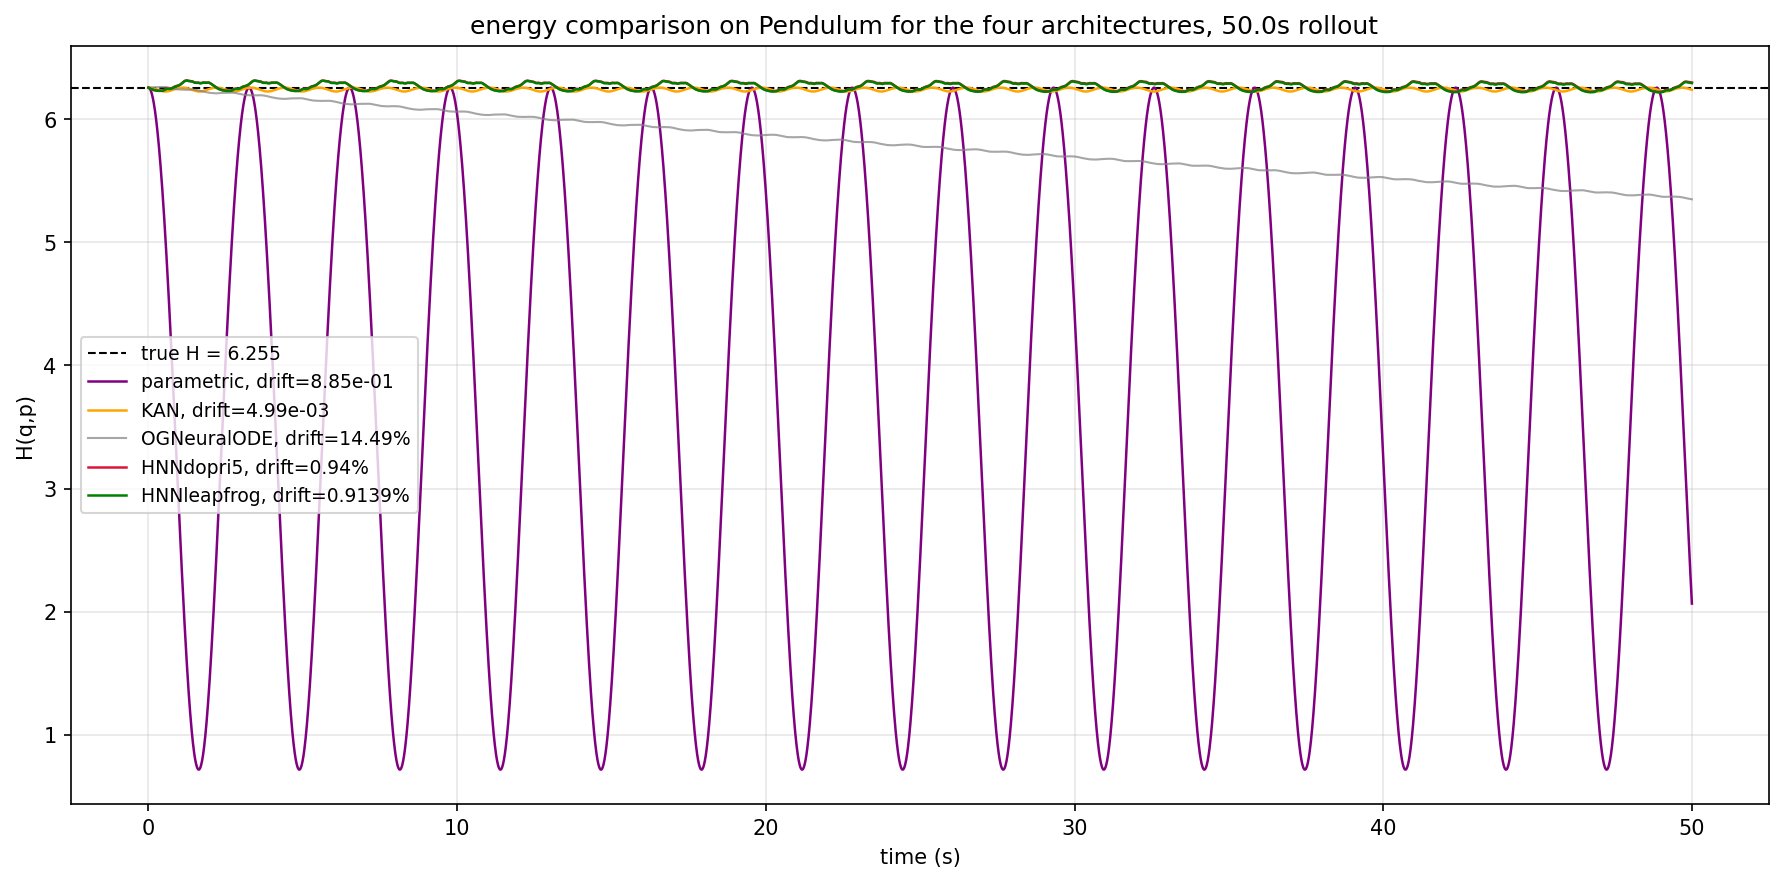
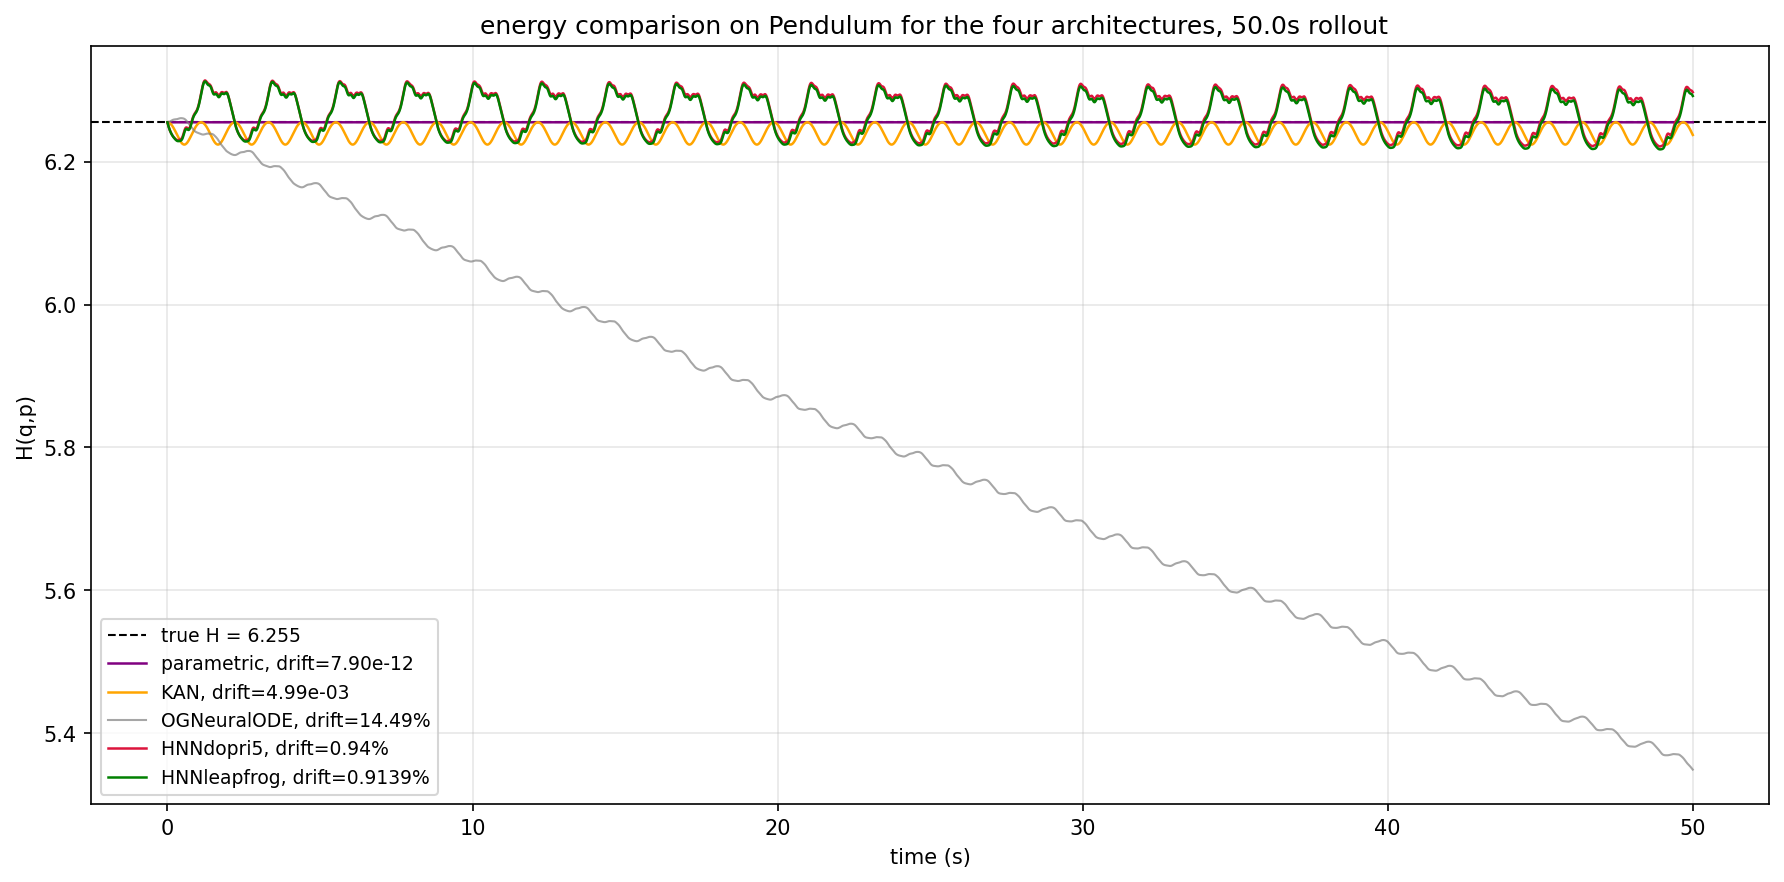
added pendulum

diff --git a/notebooks/comparison_pendulum.py b/notebooks/comparison_pendulum.py
@@ -46,16 +46,19 @@ def oracle_of_truth_trajectory(q0,p0, t_eval):
     return q,p,H
 
 def parametric_rollout(q0,p0,t_eval):
+    pend = SimplePendulum(m=1.0, l=1.0, g=9.81)
     data=np.load(data_path)
+
     train_idx=data['train_idx']
     q_train=data['q_clean'][train_idx].flatten()
     p_train=data['p_clean'][train_idx].flatten()
-    H_train=.5*q_train**2+.5*p_train**2
+    H_train = pend.hamiltonian(q_train, p_train)
 
-    pfit=ParametricHamiltonianFit()
-    result=pfit.fit_pendulum(q_train,p_train,H_train)
-    a,b=result['a'],result['b']
-    print(f"parametric fit: a={a:.6f}, b= {b:.6f}")
+    pfit = ParametricHamiltonianFit()
+    result = pfit.fit_pendulum(q_train, p_train, H_train)
+    a, b = result['a'], result['b']
+    print(f"parametric fit: a={a:.6f}, b={b:.6f}")
+
 
     def deriv(t,state):
         q,p=state
